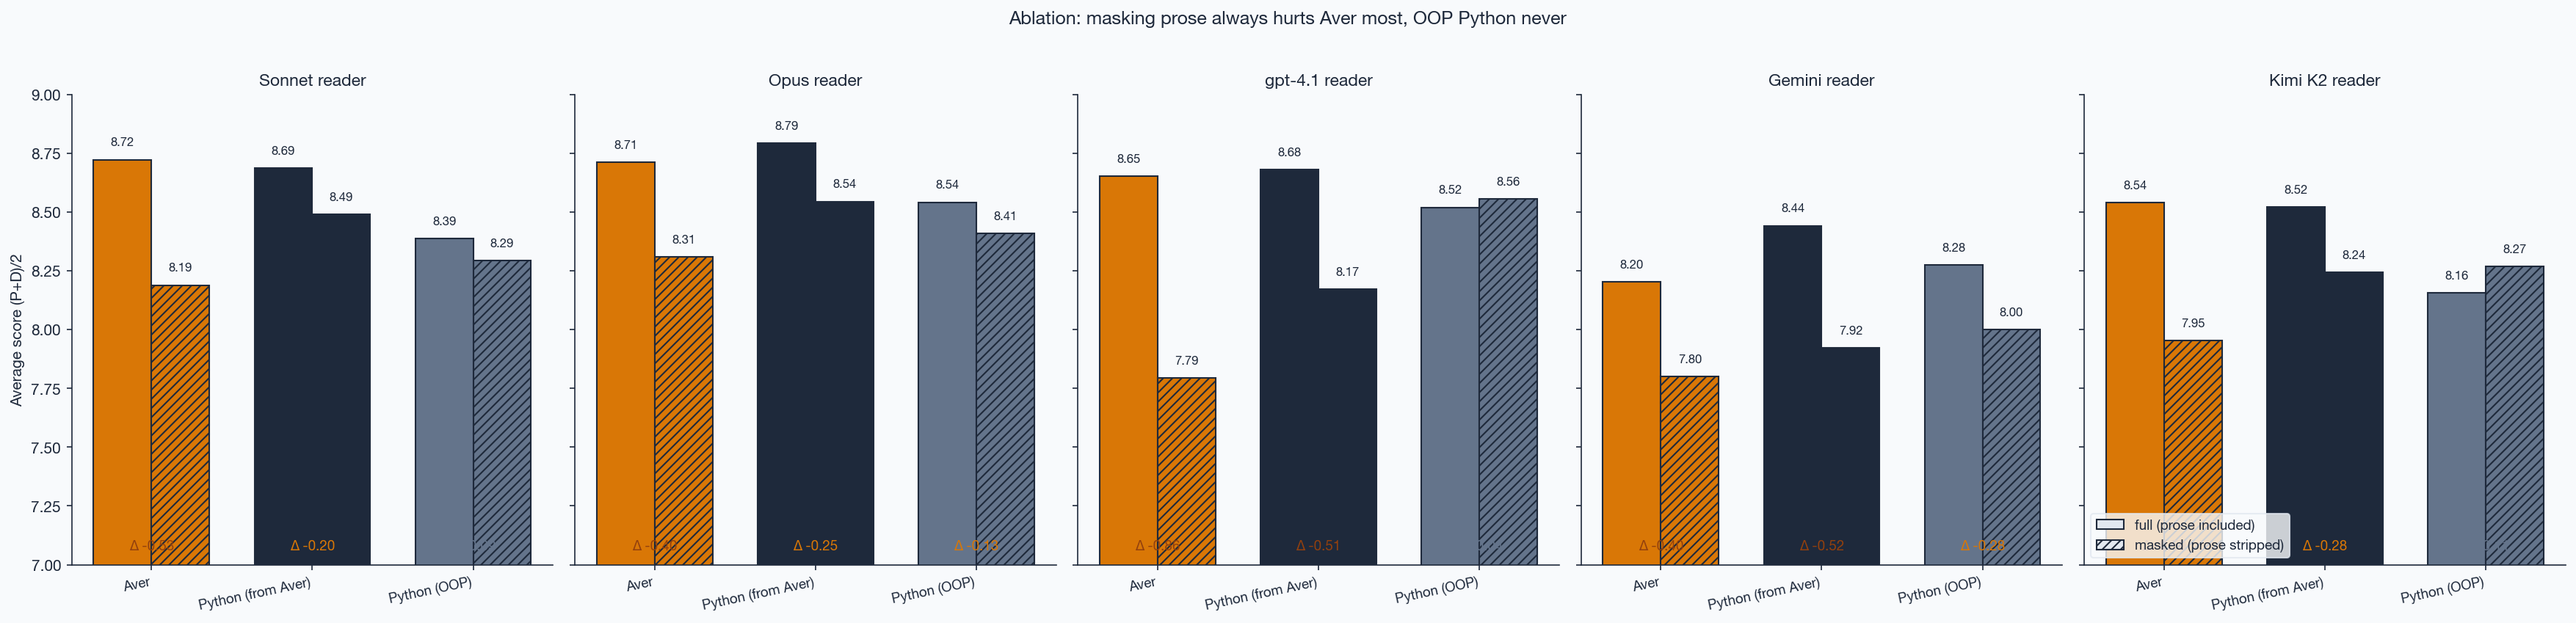
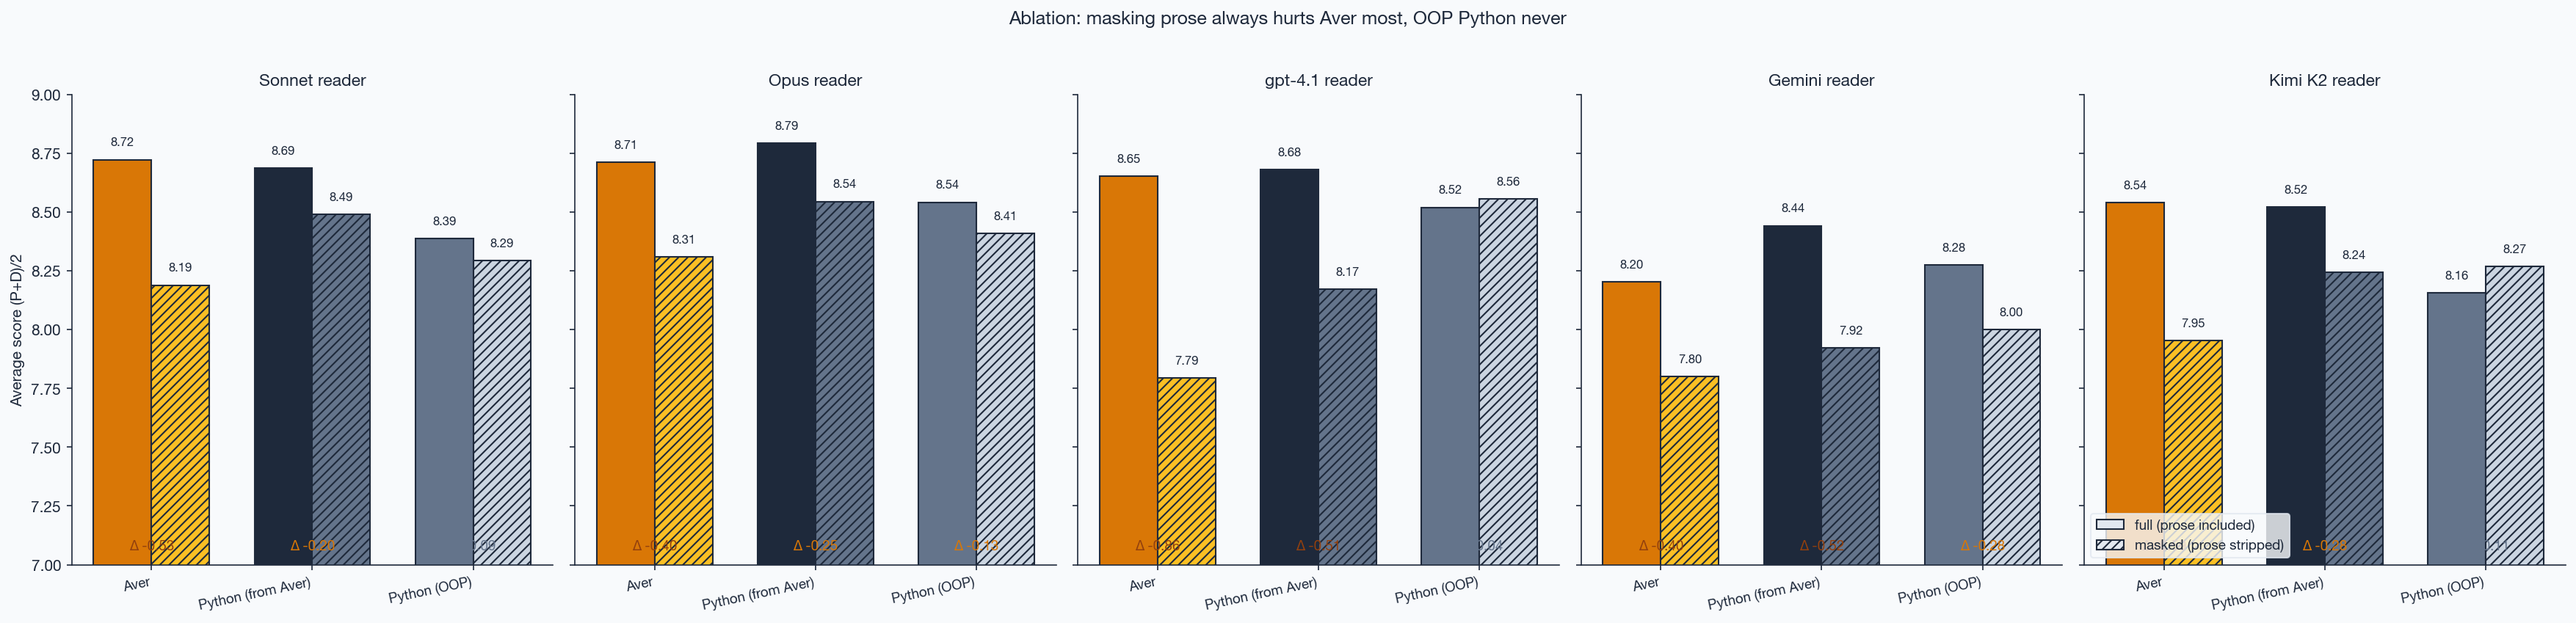
Plot: masked variants use lighter shade (hatch alone was invisible on dark colors)
User pointed out aver vs aver-masked looked identical on ranking plots —
hatch lines disappeared on the amber color. Added LANG_COLORS_MASKED
with lighter tints:
  aver:     AMBER → #fbbf24 (light amber)
  pfa:      SLATE → #64748b (slate medium)
  oop:      SLATE_MUTED → #cbd5e1 (very light slate)

Applied to: ranking, ranking_all_readers_ci, ablation_all_readers,
masked_vs_masked_spec.

diff --git a/scripts/plot_judge_bias.py b/scripts/plot_judge_bias.py
@@ -53,6 +53,13 @@ CLAUDE = ("opus", "sonnet", "haiku")
 GPT = ("gpt-4o", "gpt-4.1")
 LANGS = ["aver", "python_from_aver", "python_oop"]
 LANG_COLORS = {"aver": AMBER, "python_from_aver": SLATE, "python_oop": SLATE_MUTED}
+# Masked variants use lighter shades so full/masked are visually distinct
+# (hatching alone is invisible on darker colors)
+LANG_COLORS_MASKED = {
+    "aver": "#fbbf24",            # light amber (pale orange, clearly distinct from AMBER)
+    "python_from_aver": "#64748b",  # slate medium
+    "python_oop": "#cbd5e1",        # very light slate
+}
 LANG_LABELS = {"aver": "Aver", "python_from_aver": "Python (from Aver)", "python_oop": "Python (OOP)"}
 
 
@@ -277,7 +284,7 @@ def ablation_all_readers(out_path: Path) -> None:
 
         b1 = ax.bar(x - w / 2, full_vals, w, color=[LANG_COLORS[l] for l in langs],
                     edgecolor=SLATE, linewidth=1.0, label="full")
-        b2 = ax.bar(x + w / 2, mask_vals, w, color=[LANG_COLORS[l] for l in langs],
+        b2 = ax.bar(x + w / 2, mask_vals, w, color=[LANG_COLORS_MASKED[l] for l in langs],
                     edgecolor=SLATE, linewidth=1.0, hatch="////", label="masked")
         for bar, v in zip(b1, full_vals):
             ax.text(bar.get_x() + bar.get_width() / 2, v + 0.05, f"{v:.2f}",
@@ -518,7 +525,7 @@ def masked_vs_masked_spec(out_path: Path) -> None:
         deltas = [s - m for m, s in zip(m_vals, s_vals)]
 
         b1 = ax.bar(x - w / 2, m_vals, w,
-                    color=[LANG_COLORS[l] for l in langs],
+                    color=[LANG_COLORS_MASKED[l] for l in langs],
                     edgecolor=SLATE, linewidth=1.0, hatch="////", label="masked")
         b2 = ax.bar(x + w / 2, s_vals, w,
                     color=[LANG_COLORS[l] for l in langs],
@@ -583,7 +590,8 @@ def ranking_all_readers_ci(out_path: Path) -> None:
         cis = [ci(v) for _, v in items]
         err_lo = [m - lo for m, (lo, _) in zip(values, cis)]
         err_hi = [hi - m for m, (_, hi) in zip(values, cis)]
-        colors = [LANG_COLORS[lang] for (lang, _), _ in items]
+        colors = [LANG_COLORS[lang] if view == "full" else LANG_COLORS_MASKED[lang]
+                  for (lang, view), _ in items]
         hatches = ["" if view == "full" else "////" for (_, view), _ in items]
 
         x_pos = np.arange(len(items))

diff --git a/scripts/plot_results.py b/scripts/plot_results.py
@@ -25,6 +25,11 @@ LANG_COLORS = {
     "python_from_aver": SLATE,
     "python_oop": SLATE_MUTED,
 }
+LANG_COLORS_MASKED = {
+    "aver": "#fbbf24",              # light amber — visibly distinct from full AMBER
+    "python_from_aver": "#64748b",  # slate medium
+    "python_oop": "#cbd5e1",         # very light slate
+}
 LANG_LABELS = {
     "aver": "Aver",
     "python_from_aver": "Python (from Aver)",
@@ -104,7 +109,8 @@ def plot_ranking(agg: dict, out_path: Path) -> None:
     values = [v["avg"] for _, v in items]
     err_lo = [v["avg"] - v["ci_lo"] for _, v in items]
     err_hi = [v["ci_hi"] - v["avg"] for _, v in items]
-    colors = [LANG_COLORS[lang] for (lang, _), _ in items]
+    colors = [LANG_COLORS[lang] if view == "full" else LANG_COLORS_MASKED[lang]
+              for (lang, view), _ in items]
     hatches = [VIEW_HATCH[view] for (_, view), _ in items]
 
     fig, ax = plt.subplots(figsize=(10, 6))
